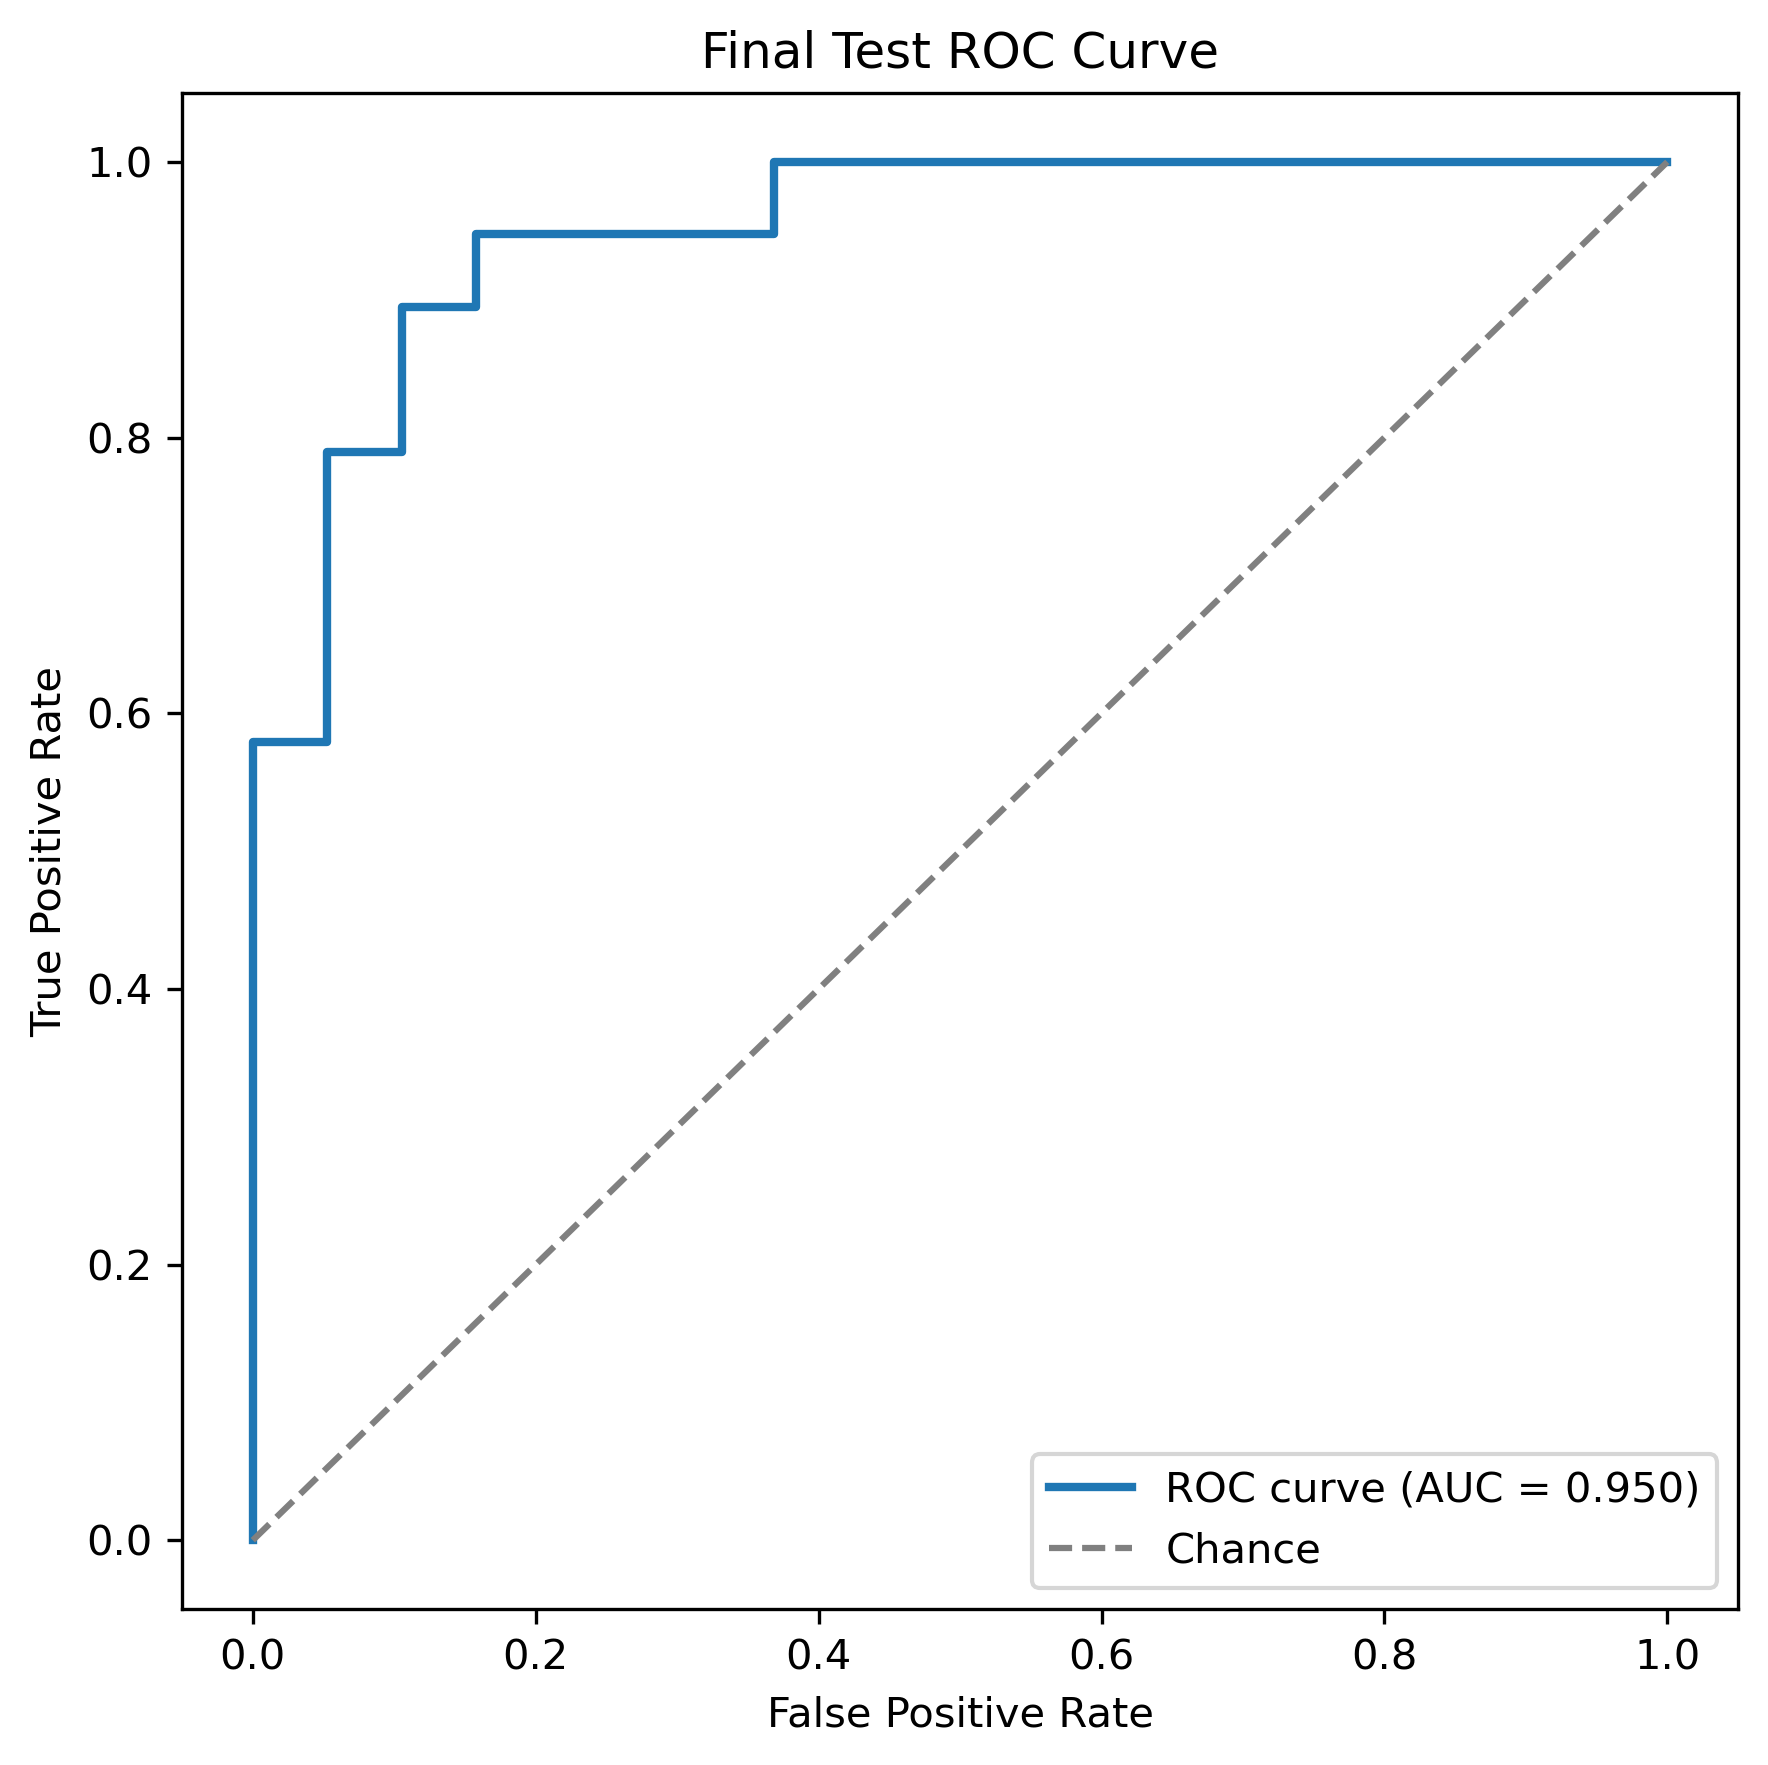
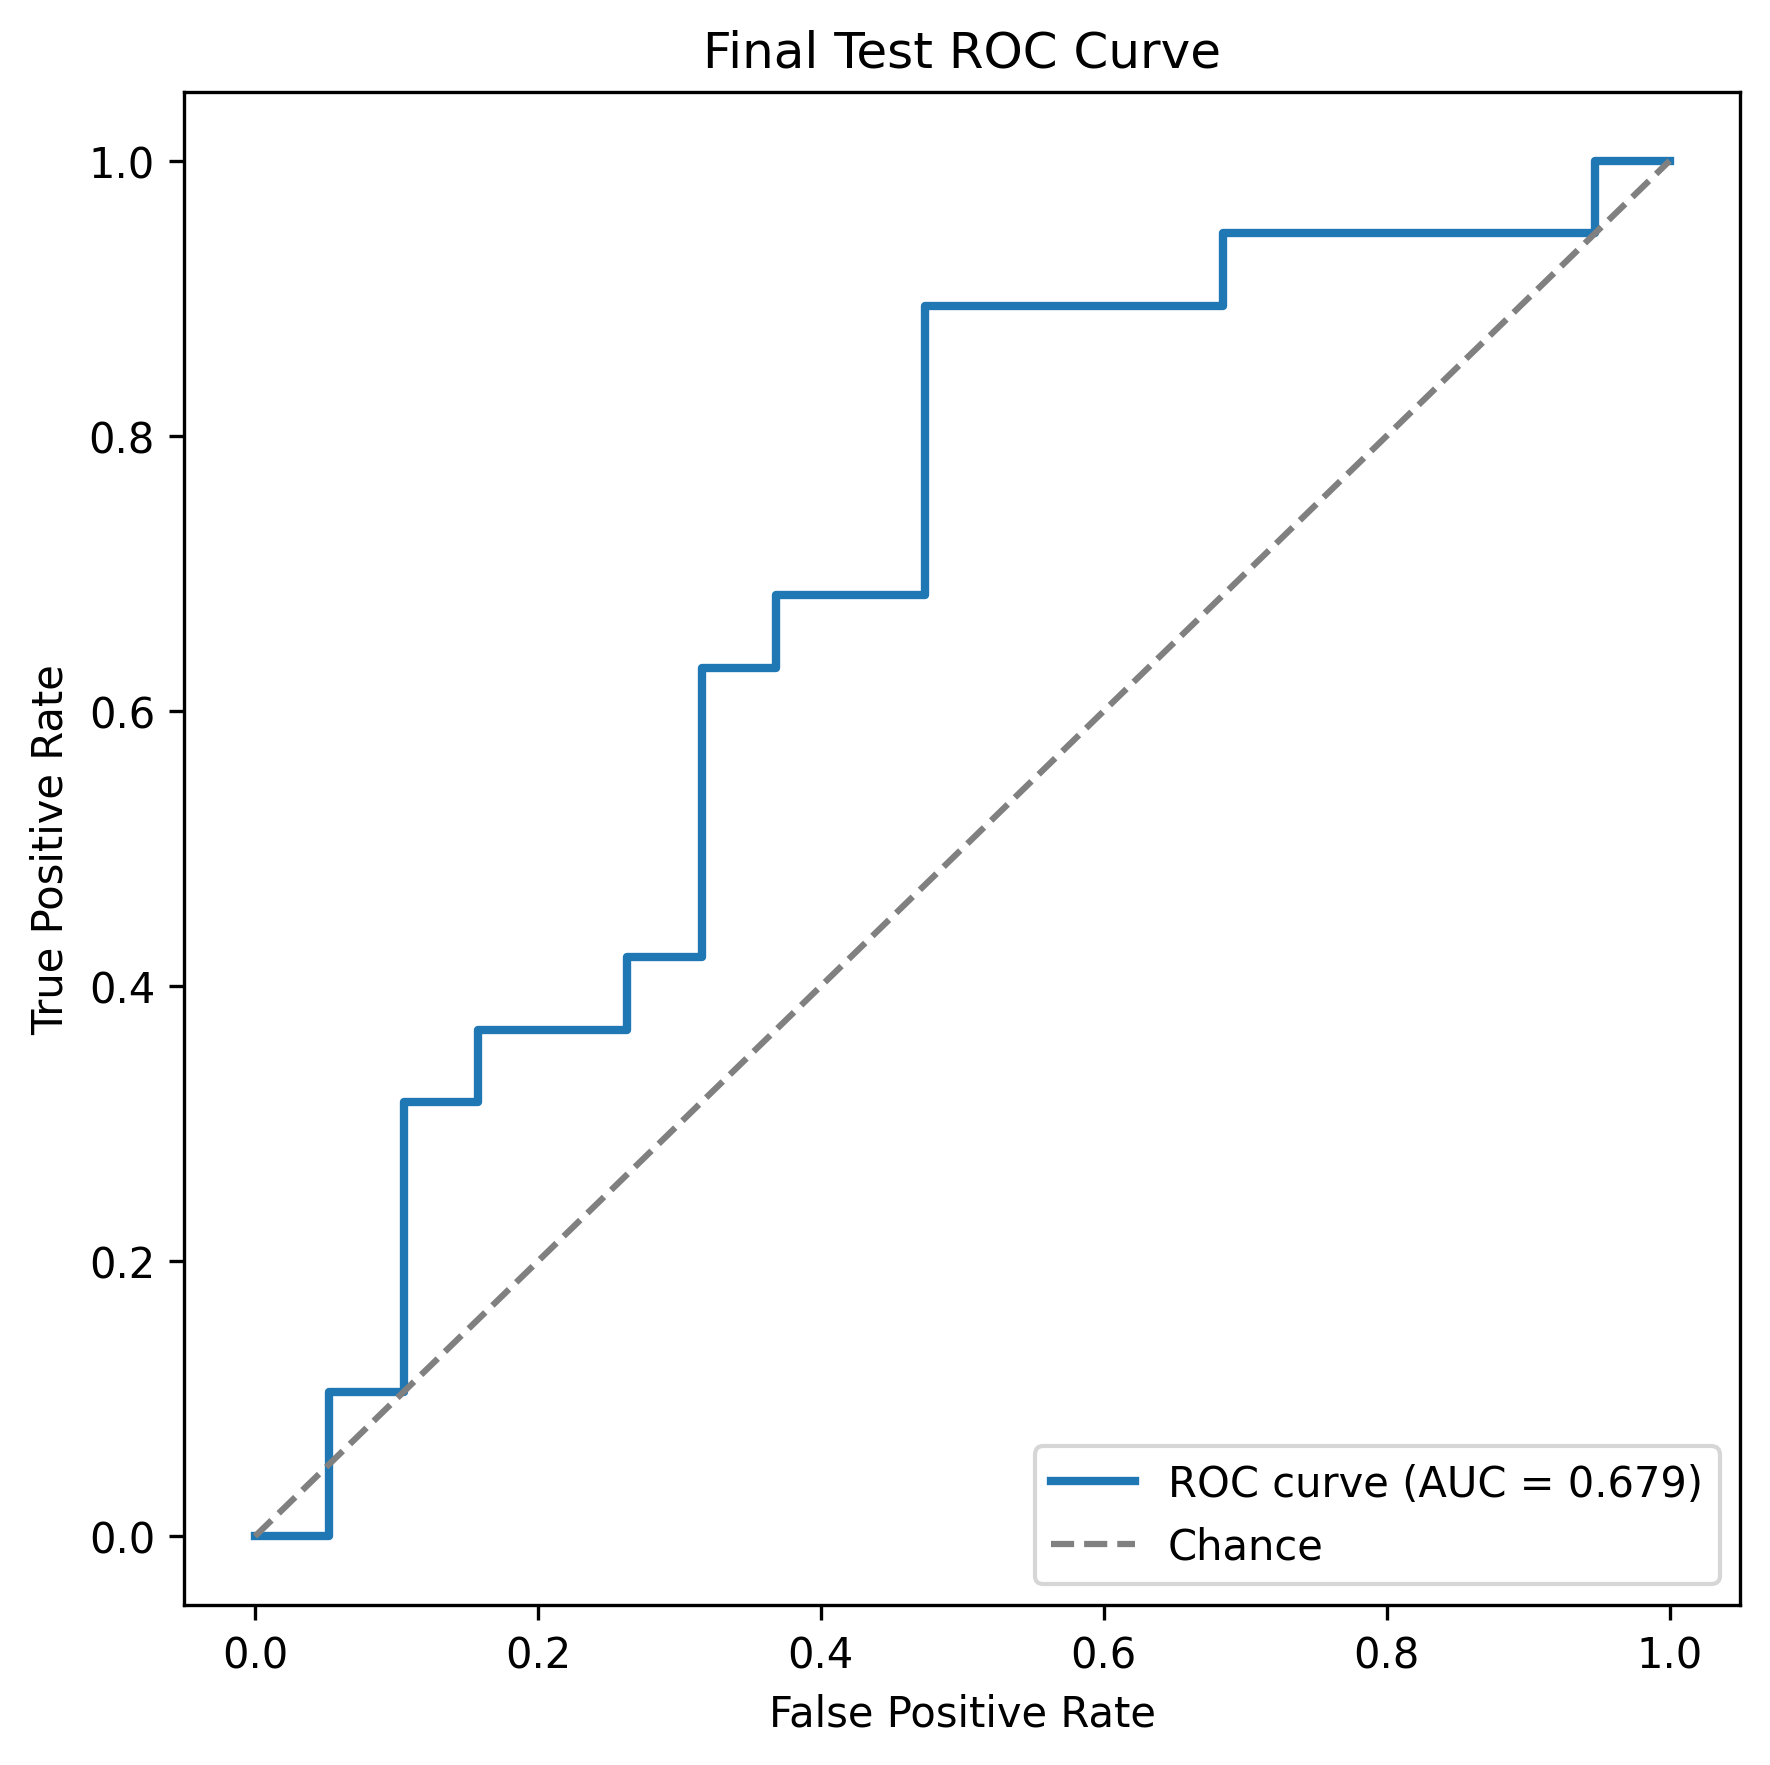
Mocht niet weg uit branch zonder te committen

diff --git a/SVM_optimizationbased_correlation_univariate.py b/SVM_optimizationbased_correlation_univariate.py
@@ -2,9 +2,7 @@ import numpy as np
 import pandas as pd
 from collections import Counter
 from pathlib import Path
-
 import matplotlib.pyplot as plt
-
 from sklearn.base import BaseEstimator, TransformerMixin
 from sklearn.feature_selection import RFE, SelectKBest, f_classif
 from sklearn.metrics import roc_auc_score, roc_curve
@@ -17,16 +15,14 @@ from sklearn.model_selection import (
 from sklearn.pipeline import Pipeline
 from sklearn.preprocessing import RobustScaler
 from sklearn.svm import LinearSVC, SVC
-
 from worcliver.load_data import load_data
-
 try:
     import shap
 except ImportError:
     shap = None
 
 
-RANDOM_STATE = 42
+RANDOM_STATE = 40
 
 
 class CorrUnivariateOptimizationSelector(BaseEstimator, TransformerMixin):
